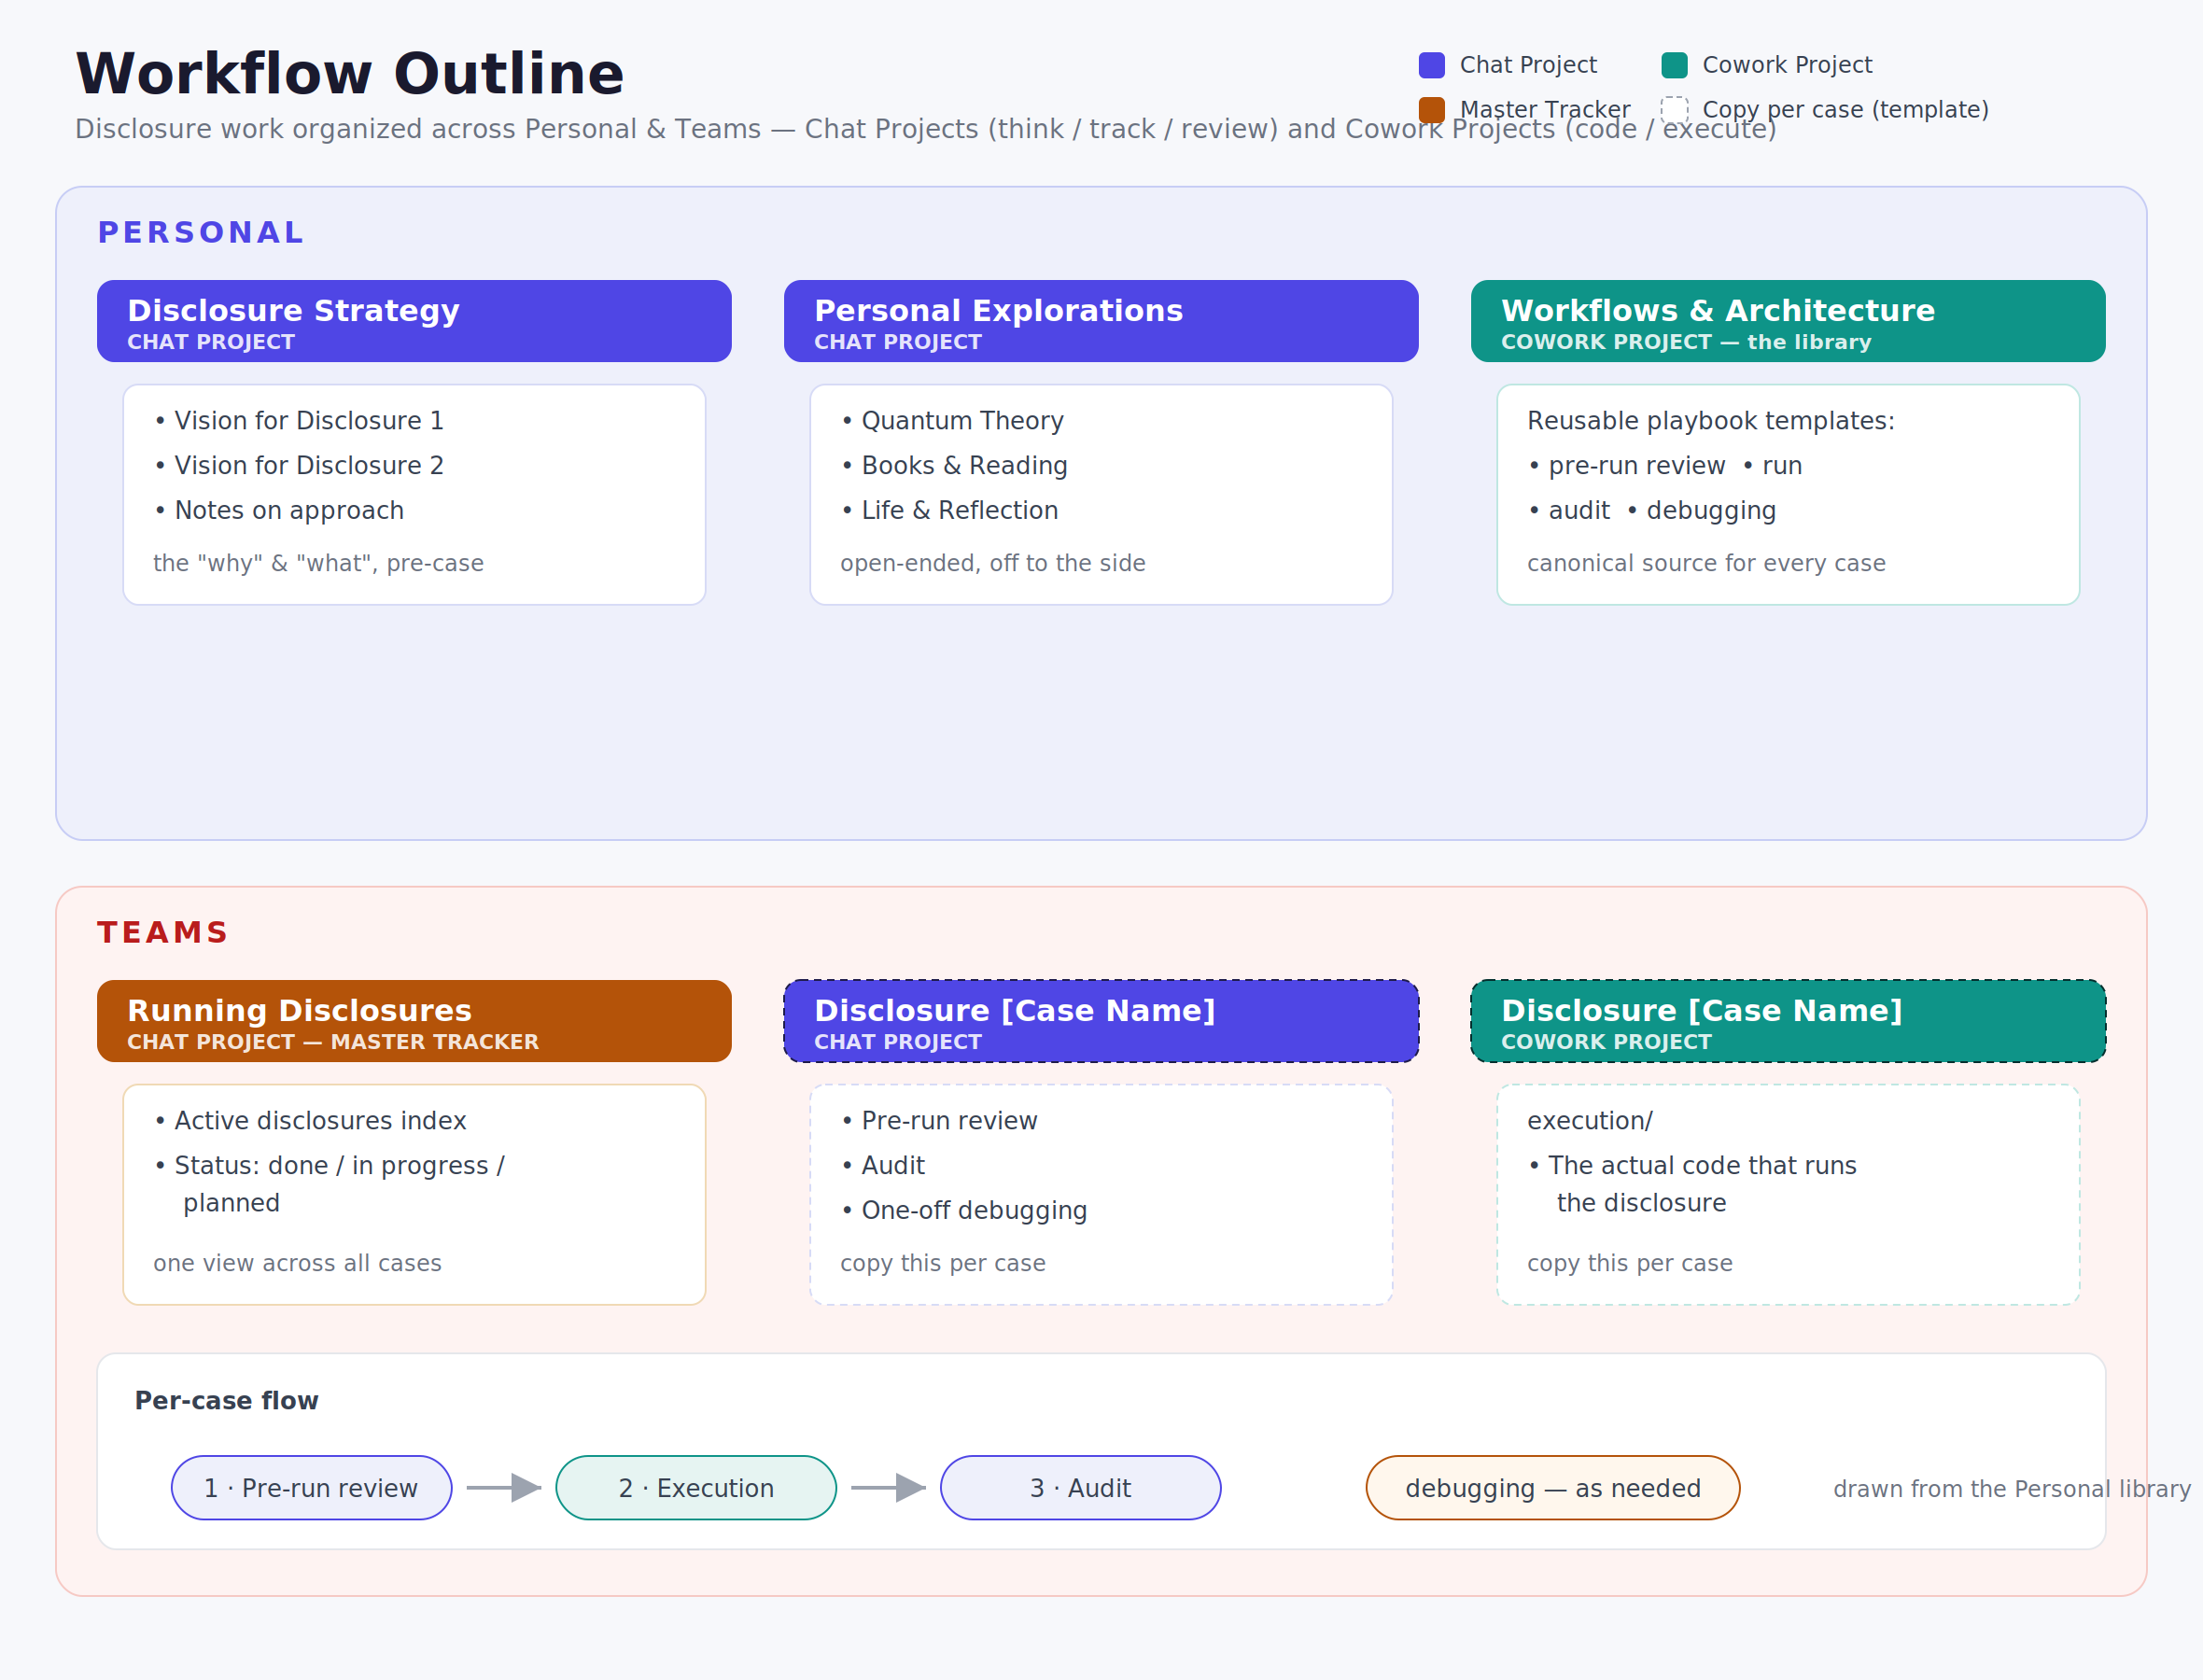
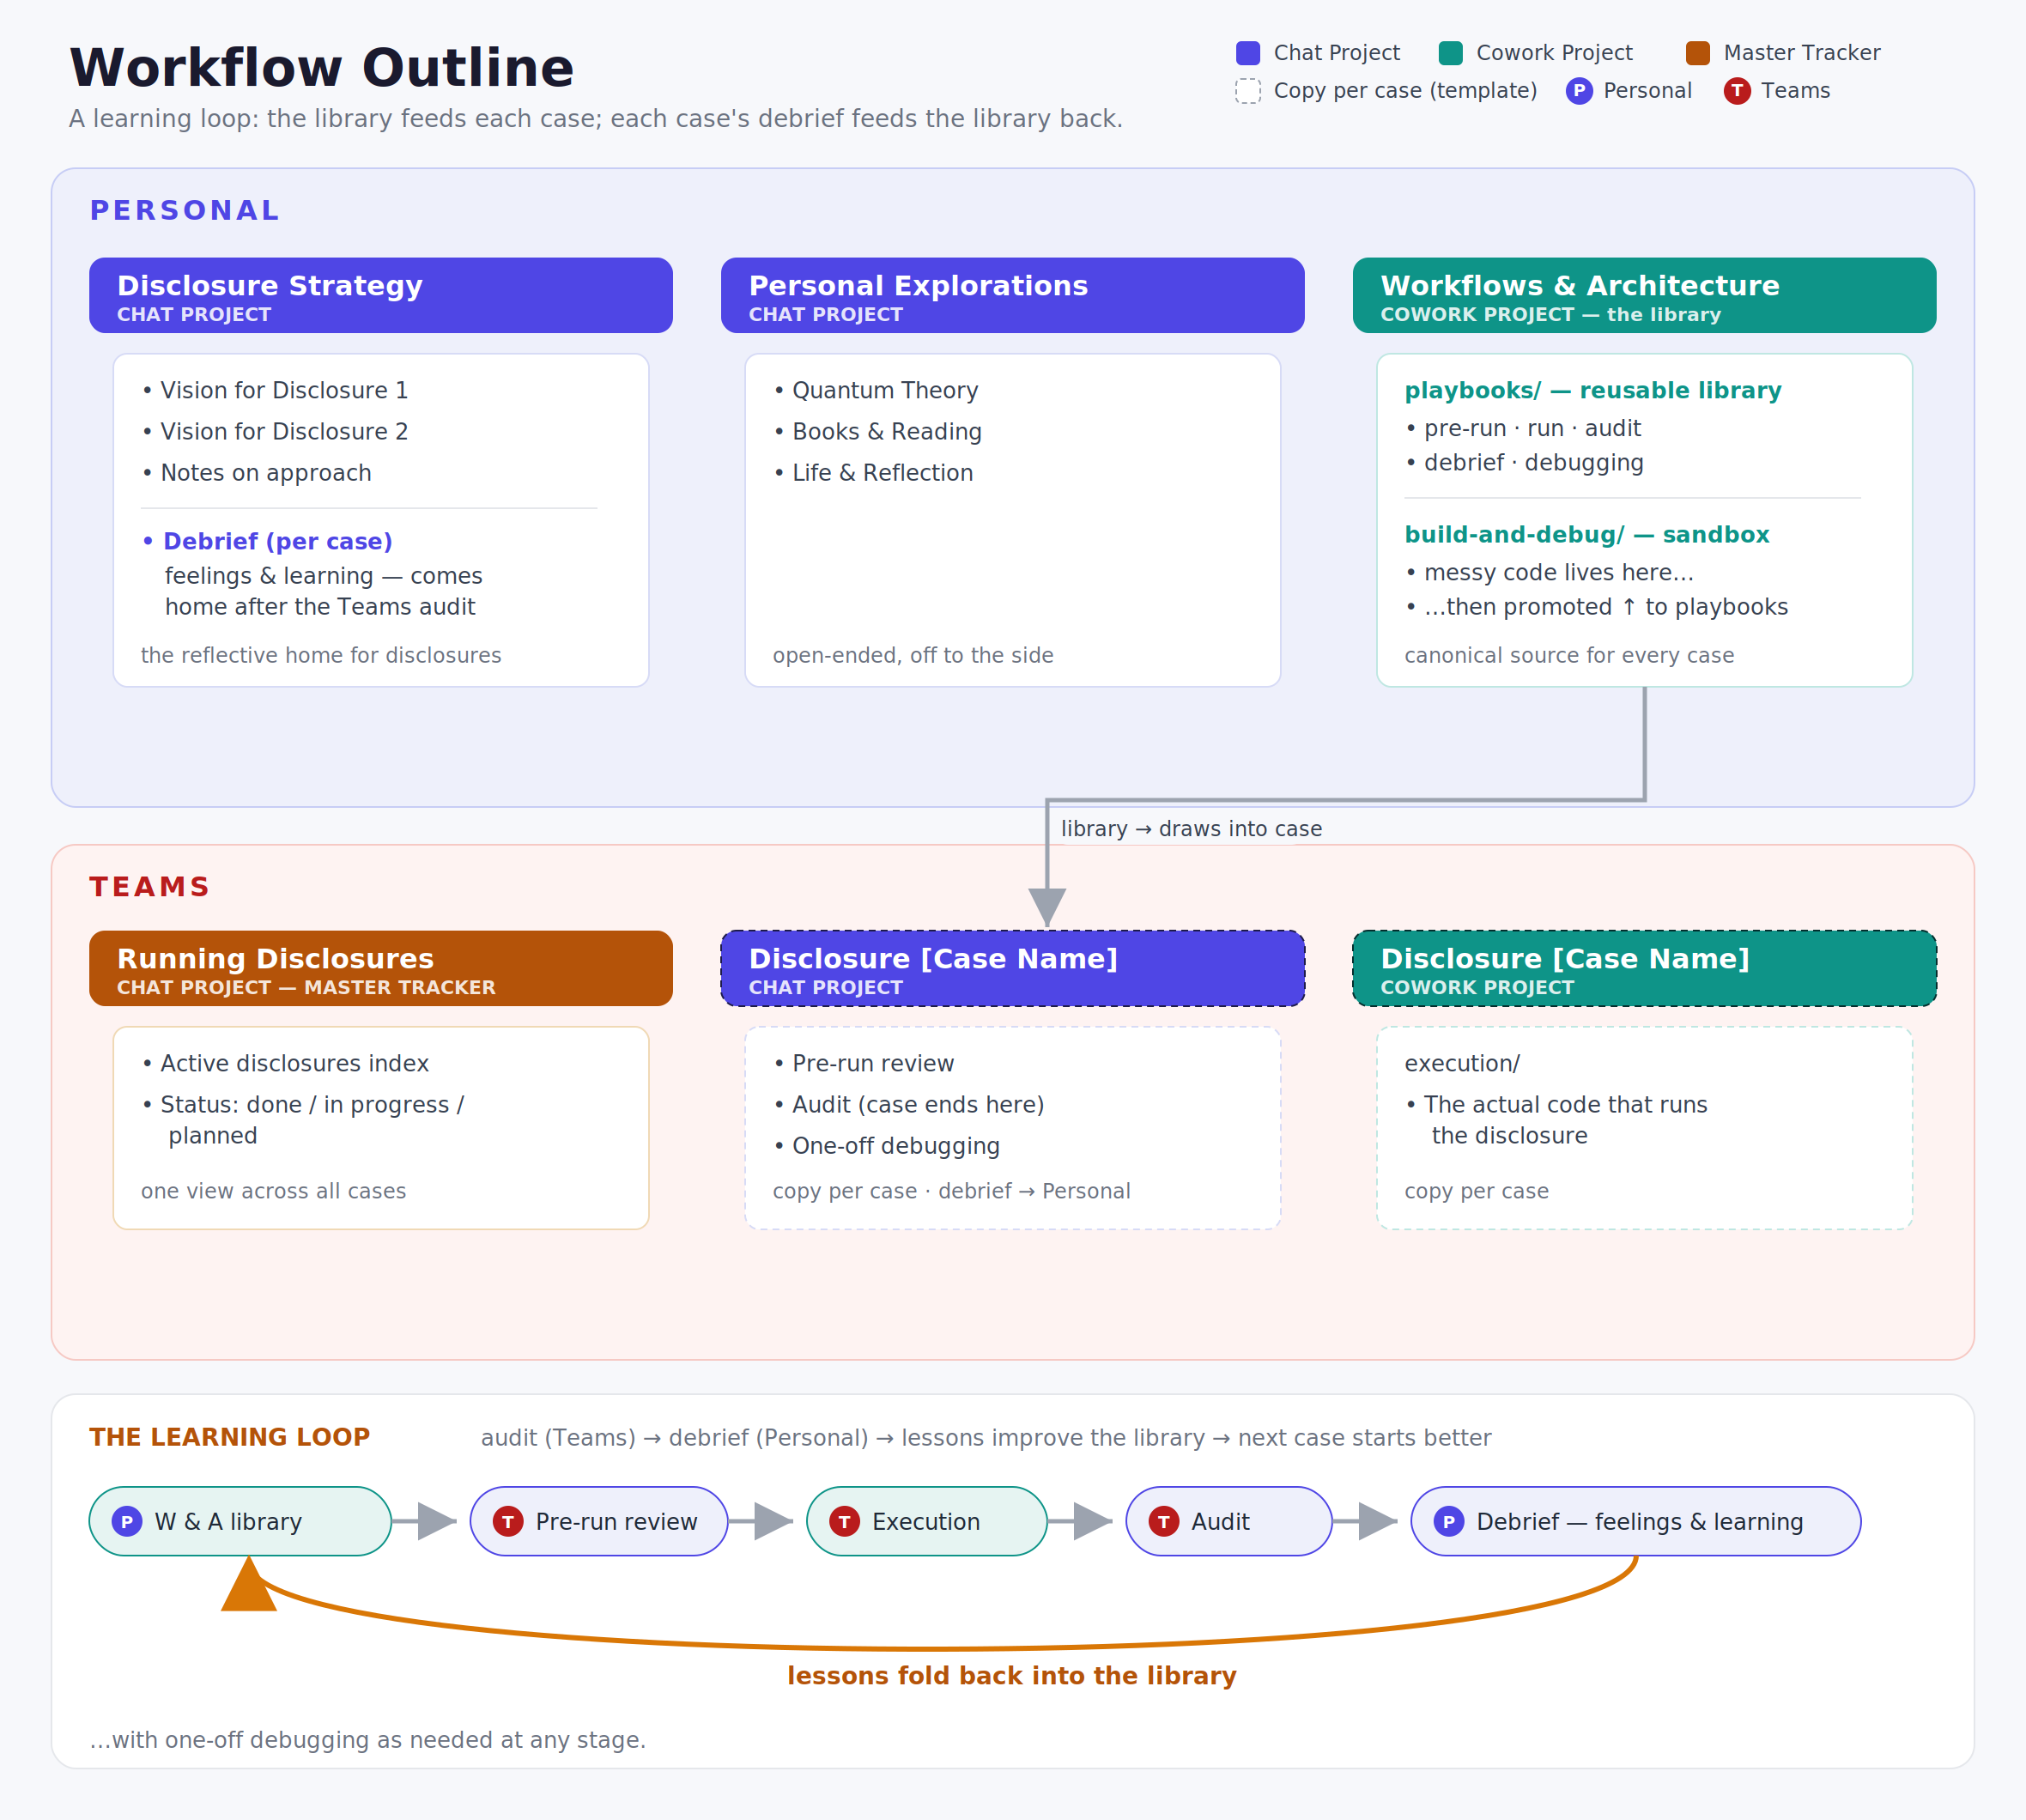
Add debrief loop, library feedback, and build-and-debug sandbox
Make the system an explicit learning loop rather than a one-way pipeline:

- Debrief: new reusable playbook template plus a Personal home at
  personal/disclosure-strategy/debriefs/. The audit stays in Teams; the
  "feelings & learning" debrief comes home to Personal after it.
- Feedback: document and diagram lessons flowing from the debrief back
  into the Workflows & Architecture library (the return arc that closes
  the loop).
- Build-and-debug: new build-and-debug/ sandbox under the Personal
  Cowork project, where messy disclosure code lives and is then promoted
  into the clean playbooks library.
- Update root, library, disclosure-strategy, and case-template READMEs
  and the structure diagram to reflect all three.

https://claude.ai/code/session_01XXx6smG3ecqvgyLwcU7nBn

Changed region(s): [[0.0309, 0.4356, 0.9589, 0.9644], [0.0309, 0.0, 0.9589, 0.3733], [0.8352, 0.8711, 0.9898, 0.9022]]

diff --git a/personal/workflows-and-architecture/playbooks/debrief.md b/personal/workflows-and-architecture/playbooks/debrief.md
@@ -1,0 +1,40 @@
+# Playbook Template — Debrief
+
+> Reusable template. Copy into Personal after a case's audit closes.
+> **Goal:** the "feelings & learning" conversation. The audit (in Teams) asks
+> *did it work?*; the debrief (in Personal) asks *what did I learn, and how did
+> it feel?* — and turns that into improvements to the library.
+
+> **Where this lives:** instances go in
+> `personal/disclosure-strategy/debriefs/`, **not** in the Teams case workspace.
+> The case ends at audit; the learning comes home.
+
+**Case:** _[case name]_
+**Date:** _[date]_
+
+## What happened (in my words)
+
+_TBD_
+
+## How it felt
+
+_What was energizing, draining, surprising, uncomfortable._
+
+_TBD_
+
+## What I learned
+
+_TBD_
+
+## What I'd change next time
+
+_TBD_
+
+## Lessons to fold back into the library
+
+For each item, name the playbook/template it should improve, then make the edit:
+
+- [ ] _Lesson → which playbook → change to make_
+
+> Closing the loop = editing the templates in
+> `personal/workflows-and-architecture/playbooks/` so the next case starts better.

diff --git a/personal/workflows-and-architecture/README.md b/personal/workflows-and-architecture/README.md
@@ -5,22 +5,36 @@ playbook templates here, rather than reinventing it per case.
 
 ## Playbooks
 
-The four reusable stages. Each is a **template** — copy into a case workspace
-and fill in the case-specific detail.
+The reusable stages. Each is a **template** — copy into a case workspace and
+fill in the case-specific detail.
 
 - [Pre-run review](./playbooks/pre-run-review.md)
 - [Run](./playbooks/run.md)
 - [Audit](./playbooks/audit.md)
 - [Debugging](./playbooks/debugging.md)
+- [Debrief](./playbooks/debrief.md) — runs in Personal *after* the audit (see below)
 
-## How a case uses this library
+## Build & debug
+
+- [build-and-debug/](./build-and-debug/) — the **messy sandbox** where
+  disclosure code is actually written and debugged. Proven, generalized work is
+  **promoted** from here into `playbooks/`. This is where the build-and-debug
+  mess lives — deliberately, so cases and the clean library stay tidy.
+
+## The learning loop
+
+This library is not a one-way feed. It's a cycle:
 
 ```
-teams/disclosure-<case>/        ← copies & instantiates these playbooks
-        │
-        └──► references ──► personal/workflows-and-architecture/playbooks/
-                                    (the canonical, reusable source)
+   ┌─────────────────────── lessons (from the debrief) ───────────────────────┐
+   │                                                                           │
+   ▼                                                                           │
+playbooks/  ──draws into──►  teams/disclosure-<case>/  ──pre-run → run → audit──►  Personal: debrief
+ (library)                       (the case)                                        (feelings & learning)
 ```
 
-When a playbook improves on a real case, fold the lesson back into the template
-here so the next case benefits.
+- **Down/out:** a case copies & instantiates these playbooks.
+- **Up/back:** after the case's audit (in Teams), the **debrief** happens back
+  in Personal (`personal/disclosure-strategy/debriefs/`). Every lesson there is
+  folded back into the templates here — *that edit is what closes the loop* and
+  makes the next case start better.

diff --git a/README.md b/README.md
@@ -16,8 +16,11 @@ that any disclosure run draws from.
 ```
 PERSONAL
 ├── Disclosure Strategy        (Chat Project)   → personal/disclosure-strategy/
+│     └── debriefs/            post-case "feelings & learning" → personal/disclosure-strategy/debriefs/
 ├── Personal Explorations      (Chat Project)   → personal/personal-explorations/
-└── Workflows & Architecture   (Cowork Project)  → personal/workflows-and-architecture/
+└── Workflows & Architecture   (Cowork Project) → personal/workflows-and-architecture/
+      ├── playbooks/           the reusable library (incl. debrief)
+      └── build-and-debug/     messy code sandbox → promoted into playbooks/
 
 TEAMS
 ├── Running Disclosures        (Chat Project)   → teams/running-disclosures/        (master tracker)
@@ -35,12 +38,30 @@ TEAMS
 ## How the pieces connect
 
 - **Personal → Workflows & Architecture** holds the *reusable* playbooks
-  (pre-run review, audit, debugging, run). It is the library.
+  (pre-run review, run, audit, debugging, debrief) — the library. Its
+  `build-and-debug/` sandbox is where messy code is written, then **promoted**
+  into the clean playbooks.
 - **Teams → Running Disclosures** is the master tracker: one index, one status
   view across every active and planned case.
 - **Teams → Disclosure [Case Name]** is a per-case workspace. Copy
   `teams/disclosure-case-template/` for each new case; its playbooks point back
   to the reusable library in Personal.
+
+### The learning loop
+
+This is a **cycle**, not a one-way pipeline:
+
+```
+library  ──draws into──►  case (pre-run → execution → audit, in Teams)
+   ▲                                      │
+   │                                      ▼
+   └──── lessons ◄──── debrief (back in Personal: feelings & learning)
+```
+
+The **audit stays in Teams** (*did it work?*). The **debrief comes home to
+Personal** (*what did I learn, how did it feel?*). Each debrief's lessons are
+folded back into the library — that return edit is what makes the next case
+start better.
 
 ## Starting a new disclosure
 
@@ -48,5 +69,8 @@ TEAMS
 2. Add the case to `teams/running-disclosures/active-disclosures-index.md`.
 3. Work the playbooks in order: **pre-run review → execution → audit**, with
    **one-off debugging** as needed.
+4. After the audit, **debrief back in Personal**: add
+   `personal/disclosure-strategy/debriefs/debrief-<case>.md`, then fold its
+   lessons into `personal/workflows-and-architecture/playbooks/`.
 
 See each directory's `README.md` for detail.

diff --git a/personal/disclosure-strategy/debriefs/README.md b/personal/disclosure-strategy/debriefs/README.md
@@ -1,0 +1,25 @@
+# Debriefs
+
+The "feelings & learning" conversations that come **home to Personal** after a
+Teams case closes. The audit stays in Teams (*did it work?*); the debrief lives
+here (*what did I learn, how did it feel?*).
+
+This is the hinge of the learning loop:
+
+```
+Teams: Audit  →  Personal: Debrief  →  improves the Workflows & Architecture library  →  next case starts better
+```
+
+## How to use
+
+1. When a case's audit closes, copy the debrief template
+   [`../../workflows-and-architecture/playbooks/debrief.md`](../../workflows-and-architecture/playbooks/debrief.md)
+   into this folder as `debrief-<case-name>.md`.
+2. Fill it in honestly — including how it felt, not just what happened.
+3. For every lesson, **edit the relevant playbook** in
+   `personal/workflows-and-architecture/playbooks/`. That edit is what closes
+   the loop.
+
+## Debriefs
+
+- _none yet — add `debrief-<case>.md` per case_

diff --git a/personal/workflows-and-architecture/build-and-debug/README.md b/personal/workflows-and-architecture/build-and-debug/README.md
@@ -1,0 +1,25 @@
+# Build & Debug *(sandbox)*
+
+The **messy workspace** — where disclosure code actually gets built and
+debugged before it's clean enough to be reusable.
+
+This sits inside the Personal *Workflows & Architecture* Cowork project on
+purpose: experimentation and half-working code live here, not in a Teams case
+and not in the polished library. It's the answer to "where does the messy
+build-and-debug work live?" — **here**.
+
+## The promotion path
+
+```
+build-and-debug/   (messy: spikes, experiments, throwaway scripts)
+        │  once it's proven and generalized
+        ▼
+playbooks/         (clean: the reusable library every case draws from)
+```
+
+Build freely here. When something works and is worth reusing, **promote** it:
+generalize it and move/encode it into `../playbooks/`. Don't let a Teams case
+depend on code that still lives in this sandbox.
+
+> If this sandbox ever grows big enough to deserve its own Personal Cowork
+> project, split it out — but for now it's folded into the library project.

diff --git a/teams/disclosure-case-template/README.md b/teams/disclosure-case-template/README.md
@@ -23,7 +23,14 @@ Run the stages in order, drawing each from the reusable library in
 
 1. **Pre-run review** → go / no-go
 2. **Execution** (in `execution/`)
-3. **Audit**
+3. **Audit** → *did it work?* — this is where the case ends, here in Teams.
+4. **Debrief** → *what did I learn, how did it feel?* — this happens **back in
+   Personal**, not here. Add `debrief-<case>.md` to
+   [`personal/disclosure-strategy/debriefs/`](../../personal/disclosure-strategy/debriefs/),
+   and fold its lessons into the playbook library.
 
 …with **one-off debugging** as needed along the way. Register the case in the
 [master tracker](../running-disclosures/active-disclosures-index.md).
+
+> The audit stays in Teams; the debrief comes home to Personal. That handoff is
+> what turns a finished case into a better next one.

diff --git a/personal/disclosure-strategy/README.md b/personal/disclosure-strategy/README.md
@@ -8,3 +8,11 @@ single case.
 - [Vision for Disclosure 1](./vision-for-disclosure-1.md)
 - [Vision for Disclosure 2](./vision-for-disclosure-2.md)
 - [Notes on approach](./notes-on-approach.md)
+
+## Debriefs
+
+After a Teams case closes its audit, the **debrief** comes home here — the
+"feelings & learning" conversation that the audit doesn't capture.
+
+- [Debriefs](./debriefs/) — one per case; each one's lessons feed back into the
+  Workflows & Architecture library.